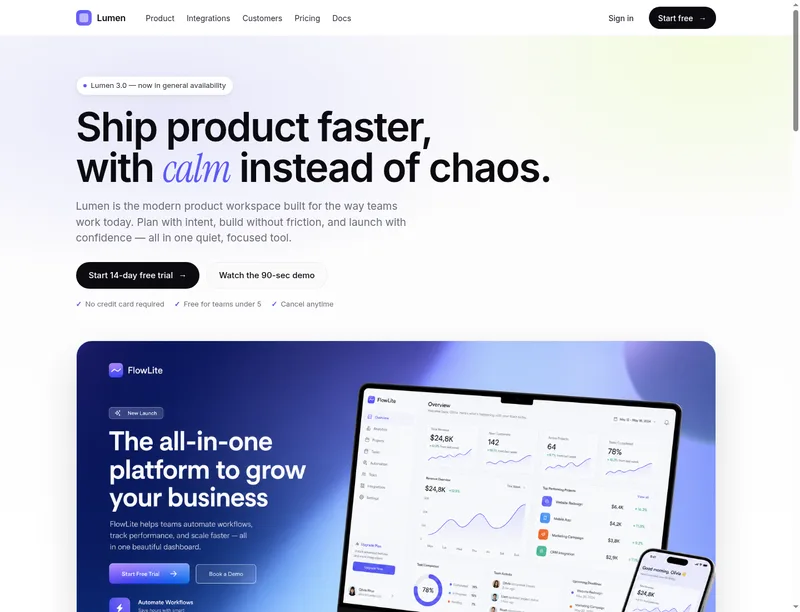
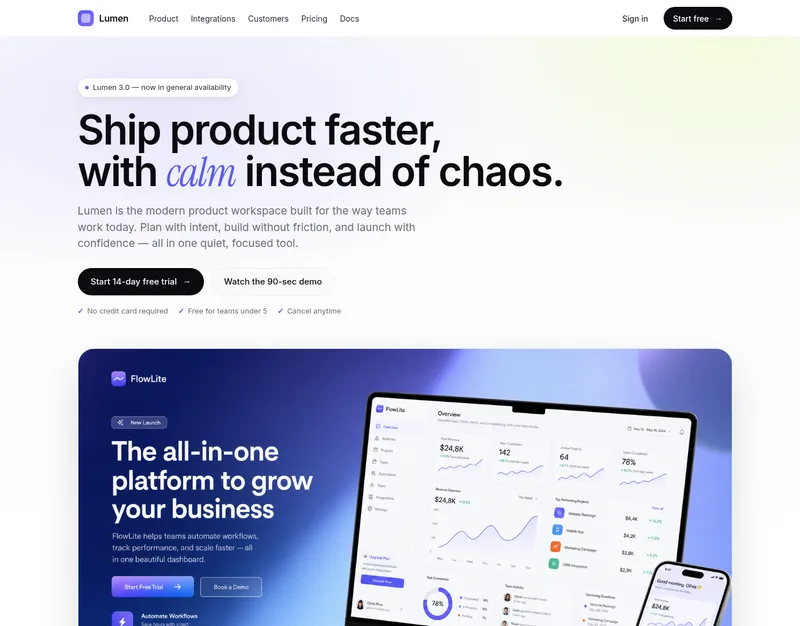
fix(onboarding): round image corners and crop website scrollbar
Apply rounded-2xl directly to the carousel img so the picture
itself shows rounded corners even when object-contain centers it
inside a larger backdrop. Previously the rounded corners only
existed on the outer container, which was invisible behind the
letterboxed image.

Website asset re-cropped from the original screenshot to drop the
right-edge scrollbar artifact that was bleeding through into the
hero card.

diff --git a/turbo/apps/platform/src/views/zero-page/zero-onboarding.tsx b/turbo/apps/platform/src/views/zero-page/zero-onboarding.tsx
@@ -550,7 +550,7 @@ function OnboardingTrialPanel() {
         <img
           src={activeItem.image}
           alt={`${activeItem.label} preview`}
-          className="max-h-full max-w-full object-contain"
+          className="max-h-full max-w-full object-contain rounded-2xl"
         />
       </div>
       <div className="flex flex-col">
